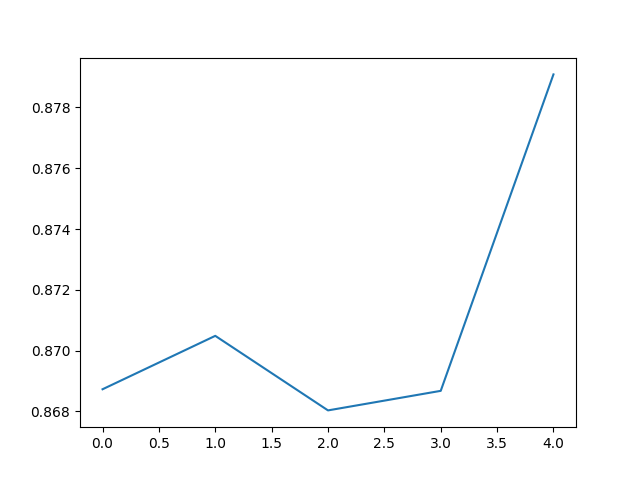
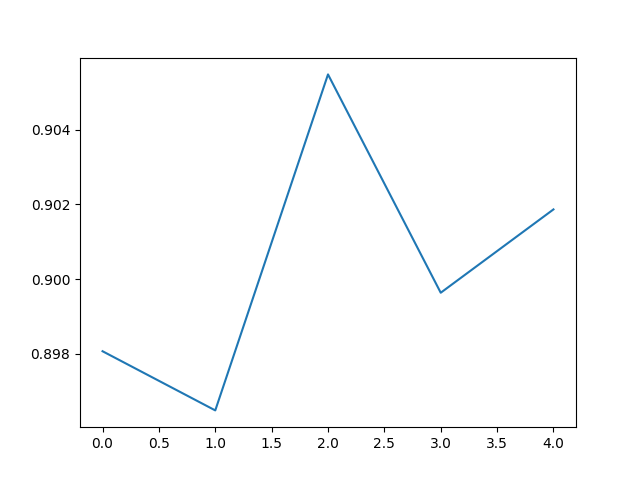
new build for simulation

diff --git a/configs/myconfig_simulation.hpp b/configs/myconfig_simulation.hpp
@@ -1,66 +1,64 @@
 
-
 /* Generic features */
 // #define EXTERNAL_FORCES
-// #define MASS
-//#define EXCLUSIONS
-//#define BOND_CONSTRAINT
-//#define THERMOSTAT_PER_PARTICLE
-//#define COLLISION_DETECTION
-//#define NPT
-//#define ENGINE
-//#define PARTICLE_ANISOTROPY
+#define MASS
+// #define EXCLUSIONS
+// #define BOND_CONSTRAINT
+// #define THERMOSTAT_PER_PARTICLE
+// #define COLLISION_DETECTION
+// #define NPT
+// #define ENGINE
+// #define PARTICLE_ANISOTROPY
 
 /* Rotation */
-//#define ROTATION
-//#define ROTATIONAL_INERTIA
+#define ROTATION
+#define ROTATIONAL_INERTIA
 
 /* Electrostatics */
-//#define ELECTROSTATICS
-//#define MMM1D_GPU
-//#define MMM1D_MACHINE_PREC
+// #define ELECTROSTATICS
+// #define MMM1D_GPU
+// #define MMM1D_MACHINE_PREC
 
 /* Magnetostatics */
-//#define DIPOLES
+#define DIPOLES
 
 /* Virtual sites features */
-//#define VIRTUAL_SITES
-//#define VIRTUAL_SITES_RELATIVE
-//#define VIRTUAL_SITES_INERTIALESS_TRACERS
+// #define VIRTUAL_SITES
+#define VIRTUAL_SITES_RELATIVE
+// #define VIRTUAL_SITES_INERTIALESS_TRACERS
 
 /* DPD features */
-//#define DPD
+// #define DPD
 
 /* Lattice-Boltzmann features */
-//#define LB_BOUNDARIES
-//#define LB_BOUNDARIES_GPU
-//#define LB_ELECTROHYDRODYNAMICS
-//#define ELECTROKINETICS
-//#define EK_BOUNDARIES
-//#define EK_DEBUG
+// #define LB_BOUNDARIES
+#define LB_BOUNDARIES_GPU
+// #define LB_ELECTROHYDRODYNAMICS
+// #define ELECTROKINETICS
+// #define EK_BOUNDARIES
+// #define EK_DEBUG
 
 /* Interaction features */
-//#define TABULATED
-//#define LENNARD_JONES
-//#define WCA
-//#define LENNARD_JONES_GENERIC
-//#define LJCOS
-//#define LJCOS2
-//#define LJGEN_SOFTCORE
-//#define SMOOTH_STEP
-//#define HERTZIAN
-//#define GAUSSIAN
-//#define BMHTF_NACL
-//#define MORSE
-//#define BUCKINGHAM
-//#define SOFT_SPHERE
-//#define HAT
-//#define GAY_BERNE
-//#define THOLE
+// #define TABULATED
+#define LENNARD_JONES
+// #define WCA
+// #define LENNARD_JONES_GENERIC
+// #define LJCOS
+// #define LJCOS2
+// #define LJGEN_SOFTCORE
+// #define SMOOTH_STEP
+// #define HERTZIAN
+// #define GAUSSIAN
+// #define BMHTF_NACL
+// #define MORSE
+// #define BUCKINGHAM
+// #define SOFT_SPHERE
+// #define HAT
+// #define GAY_BERNE
+// #define THOLE
 
 /* ScaFaCoS */
-//#define SCAFACOS_DIPOLES
+// #define SCAFACOS_DIPOLES
 
 /* Debugging */
-//#define ADDITIONAL_CHECKS
-
+// #define ADDITIONAL_CHECKS

diff --git a/scripts/ellipsoid_4.2.py b/scripts/ellipsoid_4.2.py
@@ -26,7 +26,6 @@ import sys
 from pathlib import Path
 
 import espressomd
-from espressomd.virtual_sites import VirtualSitesRelative
 
 import time
 import numba
@@ -45,6 +44,7 @@ espressomd.assert_features(
         "LENNARD_JONES"
     ]
 )
+
 # endregion
 # region: User input
 
@@ -63,12 +63,12 @@ def print(*args, override=False, **kwargs):
 
 
 # for running from outside with args if you want several geometries cued up with cue_AXES.py
-a = float(sys.argv[1])
-b = float(sys.argv[2])
+# a = float(sys.argv[1])
+# b = float(sys.argv[2])
 
 # Manual
-# a = 3
-# b = 2
+a = 3.1
+b = 2
 
 
 # Writes vtk animation frames of the shell process and inner process, doesn't hamper performance much at all
@@ -147,7 +147,7 @@ system.non_bonded_inter[1, 1].lennard_jones.set_params(
 )
 
 # Seed
-seed_pass = np.random.randint(0, 2**32 - 1)
+seed_pass = np.random.randint(0, 2**16 - 1)
 print("Seed Pass: ", seed_pass)
 
 # Going to even lower temp regime 0.00001 might make sense, but this seems to function well
@@ -160,7 +160,7 @@ colPos = (0, 0, 0)
 
 # Place the central particle
 system.part.add(id=0, pos=colPos, type=0, fix=(
-    True, True, True), rotation=(1, 1, 1))
+    True, True, True), rotation=(True, True, True))
 
 # endregion
 
@@ -378,8 +378,6 @@ if save_visualization:
 #############################################################################################################################
 # region: Virtual sites
 
-# Select the desired implementation for virtual sites
-system.virtual_sites = VirtualSitesRelative()
 # min_global_cut needs to be bigger than all virtual bond lengths
 system.min_global_cut = radius_col
 
@@ -452,8 +450,8 @@ for pos in arr_of_points:
 system.force_cap = 100
 
 system.part.by_id(0).pos = center
-system.part.by_id(0).fix = [1, 1, 1]
-system.part.by_id(0).rotation = [0, 0, 0]
+system.part.by_id(0).fix = [True, True, True]
+system.part.by_id(0).rotation = [False, False, False]
 
 
 print("Relaxation of the filling particles")